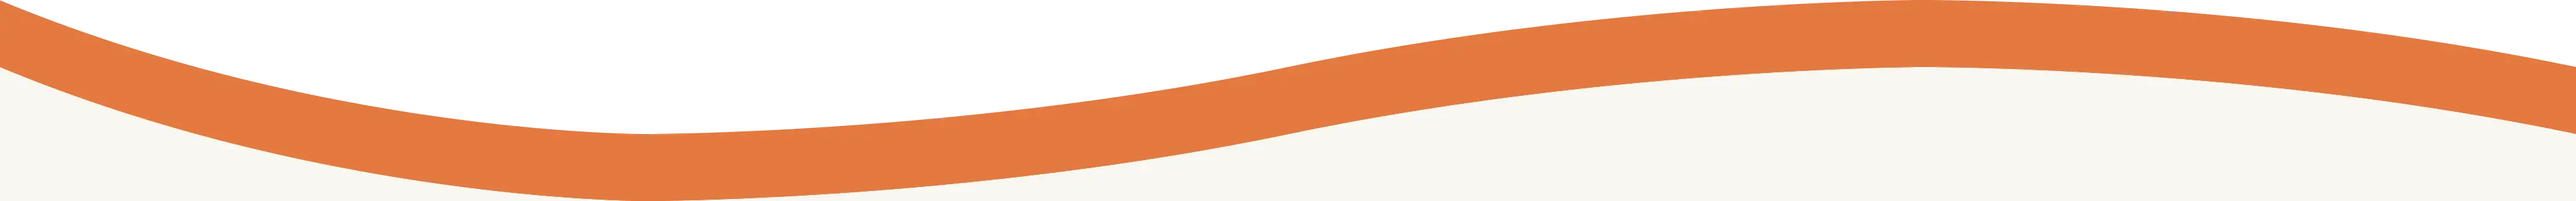
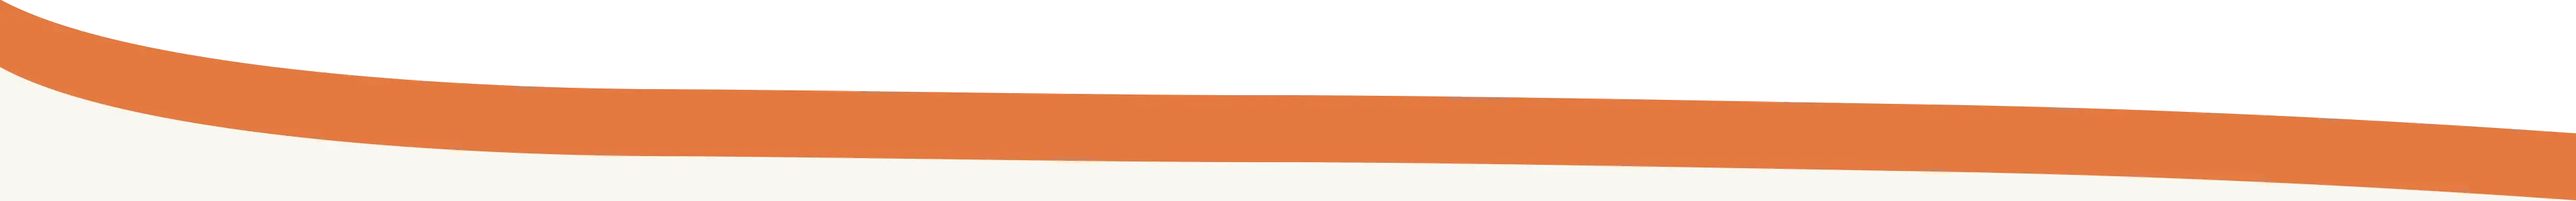
added footer exts and specific shape for seasons

diff --git a/_sass/minima/skins/custom.scss b/_sass/minima/skins/custom.scss
@@ -19,6 +19,7 @@ $de-link-base-color:       #2a7ae2 !default;
 $de-background-image: url("/images/background/background-de.webp");
 $de-profile-image: url("/images/profile/profile-de.webp");
 $de-header-ext-img: url("/images/background/header-ext-de.webp");
+$de-footer-ext-img: url("/images/background/footer-ext-wi.webp");
 
 $de-brand-color-light: lighten($de-brand-color, 40%) !default;
 $de-brand-color-dark: darken($de-brand-color, 25%) !default;
@@ -50,6 +51,7 @@ $sp-link-base-color:       #9bb600 !default;
 $sp-background-image: url("/images/background/background-sp.webp");
 $sp-profile-image: url("/images/profile/profile-sp.webp");
 $sp-header-ext-img: url("/images/background/header-ext-sp.webp");
+$sp-footer-ext-img: url("/images/background/footer-ext-sp.webp");
 
 $sp-brand-color-light: lighten($sp-brand-color, 50%) !default;
 $sp-brand-color-dark: darken($sp-brand-color, 25%) !default;
@@ -83,6 +85,7 @@ $su-link-base-color:       #1799c8 !default;
 $su-background-image: url("/images/background/background-su.webp");
 $su-profile-image: url("/images/profile/profile-su.webp");
 $su-header-ext-img: url("/images/background/header-ext-su.webp");
+$su-footer-ext-img: url("/images/background/footer-ext-su.webp");
 
 $su-brand-color-light: lighten($su-brand-color, 40%) !default;
 $su-brand-color-dark: darken(#b4d4dc, 25%) !default;
@@ -98,7 +101,7 @@ $su-link-hover-color: $su-text-color !default;
 
 $su-border-color-01: lighten($su-code-background-color, 2%) !default; //$su-brand-color-light !default;
 $su-border-color-02: lighten($su-brand-color, 35%) !default;
-$su-border-color-03: $su-brand-color-dark !default;
+$su-border-color-03: darken($su-link-base-color, 25%) !default;
 
 $su-table-text-color:      lighten($su-text-color, 18%) !default;
 $su-table-zebra-color:     adjust-color(lighten($su-brand-color, 46%), $alpha: -0.65) !default;
@@ -114,6 +117,7 @@ $au-link-base-color:       #e76016 !default;
 $au-background-image: url("/images/background/background-au.webp");
 $au-profile-image: url("/images/profile/profile-au.webp");
 $au-header-ext-img: url("/images/background/header-ext-au.webp");
+$au-footer-ext-img: url("/images/background/footer-ext-au.webp");
 
 $au-brand-color-light: lighten($au-brand-color, 40%) !default;
 $au-brand-color-dark: darken($au-link-base-color, 25%) !default;
@@ -145,6 +149,7 @@ $wi-link-base-color:       #0095ff !default;
 $wi-background-image: url("/images/background/background-wi.webp");
 $wi-profile-image: url("/images/profile/profile-wi.webp");
 $wi-header-ext-img: url("/images/background/header-ext-wi.webp");
+$wi-footer-ext-img: url("/images/background/footer-ext-wi.webp");
 
 $wi-brand-color-light: lighten($wi-brand-color, 40%) !default;
 $wi-brand-color-dark: darken($wi-link-base-color, 25%) !default;
@@ -178,6 +183,7 @@ $code-background-color: $de-code-background-color;
 $background-image: $de-background-image;
 $profile-image: $de-profile-image;
 $header-ext-img: $de-header-ext-img;
+$footer-ext-img: $de-footer-ext-img;
 $title: $de-title;
 
 $brand-color-light: $de-brand-color-light;
@@ -208,6 +214,7 @@ $table-border-color: $de-table-border-color;
     $background-image: $sp-background-image;
     $profile-image: $sp-profile-image;
     $header-ext-img: $sp-header-ext-img;
+    $footer-ext-img: $sp-footer-ext-img;
     $title: $sp-title;
 
     $brand-color-light: $sp-brand-color-light;
@@ -237,6 +244,7 @@ $table-border-color: $de-table-border-color;
     $background-image: $su-background-image;
     $profile-image: $su-profile-image;
     $header-ext-img: $su-header-ext-img;
+    $footer-ext-img: $su-footer-ext-img;
     $title: $su-title;
 
     $brand-color-light: $su-brand-color-light;
@@ -266,6 +274,7 @@ $table-border-color: $de-table-border-color;
     $background-image: $au-background-image;
     $profile-image: $au-profile-image;
     $header-ext-img: $au-header-ext-img;
+    $footer-ext-img: $au-footer-ext-img;
     $title: $au-title;
 
     $brand-color-light: $au-brand-color-light;
@@ -295,6 +304,7 @@ $table-border-color: $de-table-border-color;
     $background-image: $wi-background-image;
     $profile-image: $wi-profile-image;
     $header-ext-img: $wi-header-ext-img;
+    $footer-ext-img: $wi-footer-ext-img;
     $title: $wi-title;
 
     $brand-color-light: $wi-brand-color-light;

diff --git a/_sass/minima/layout.scss b/_sass/minima/layout.scss
@@ -135,6 +135,8 @@
 .site-footer {
   // white cover is handled here instead of body because of Firefox incompatibility
   // background-color: rgba(255,255,255,0.8);
+  // in new design, background should be the cover color for header as well, so here it should be border 3, the color shown for the menu button
+  background-color: $border-color-03;
   border-top: 0px solid $border-color-01;
   padding: $spacing-unit 0;
   flex-grow: 0;
@@ -159,7 +161,8 @@
 .footer-col-wrapper,
 .social-links {
   @include relative-font-size(0.9375);
-  color: #828282;
+  color: #fdfdfd;
+  // color: #828282;
 }
 
 .footer-col {

diff --git a/_includes/social-item.html b/_includes/social-item.html
@@ -1,6 +1,6 @@
 <li style="margin: -1px 0;">{% assign entry = include.item %}
   <a {% unless entry.platform == 'rss' %}rel="me" {% endunless %}href="{{ entry.user_url }}" target="_blank" title="{{ entry.title | default: entry.platform }}">
-    <svg class="svg-icon grey">
+    <svg class="svg-icon">
       <use xlink:href="{{ '/assets/minima-social-icons.svg#' | append: entry.platform | relative_url }}"></use>
     </svg>
   </a>

diff --git a/_includes/svg_symbol.html b/_includes/svg_symbol.html
@@ -1,3 +1,3 @@
-<symbol id="{{ include.key }}" fill-rule="evenodd" clip-rule="evenodd" stroke-linejoin="round" stroke-miterlimit="1.414" viewBox="0 0 16 16">
+<symbol id="{{ include.key }}" fill = "#fdfdfd" fill-rule="evenodd" clip-rule="evenodd" stroke-linejoin="round" stroke-miterlimit="1.414" viewBox="0 0 16 16">
   {%- include social-icons/{{ include.key }}.svg -%}
 </symbol>

diff --git a/_sass/minima/custom-styles.scss b/_sass/minima/custom-styles.scss
@@ -7,6 +7,12 @@
     width: 100%;
 }
 
+.footer-ext {
+    content: $footer-ext-img;
+    height: 100%;
+    width: 100%;
+}
+
 .tag {
     display: inline-block;
     *display: inline; /* for older IE */

diff --git a/_includes/footer.html b/_includes/footer.html
@@ -1,3 +1,5 @@
+<div class="footer-ext"></div>
+
 <footer class="site-footer h-card">
   <data class="u-url" href="{{ "/" | relative_url }}"></data>
 
